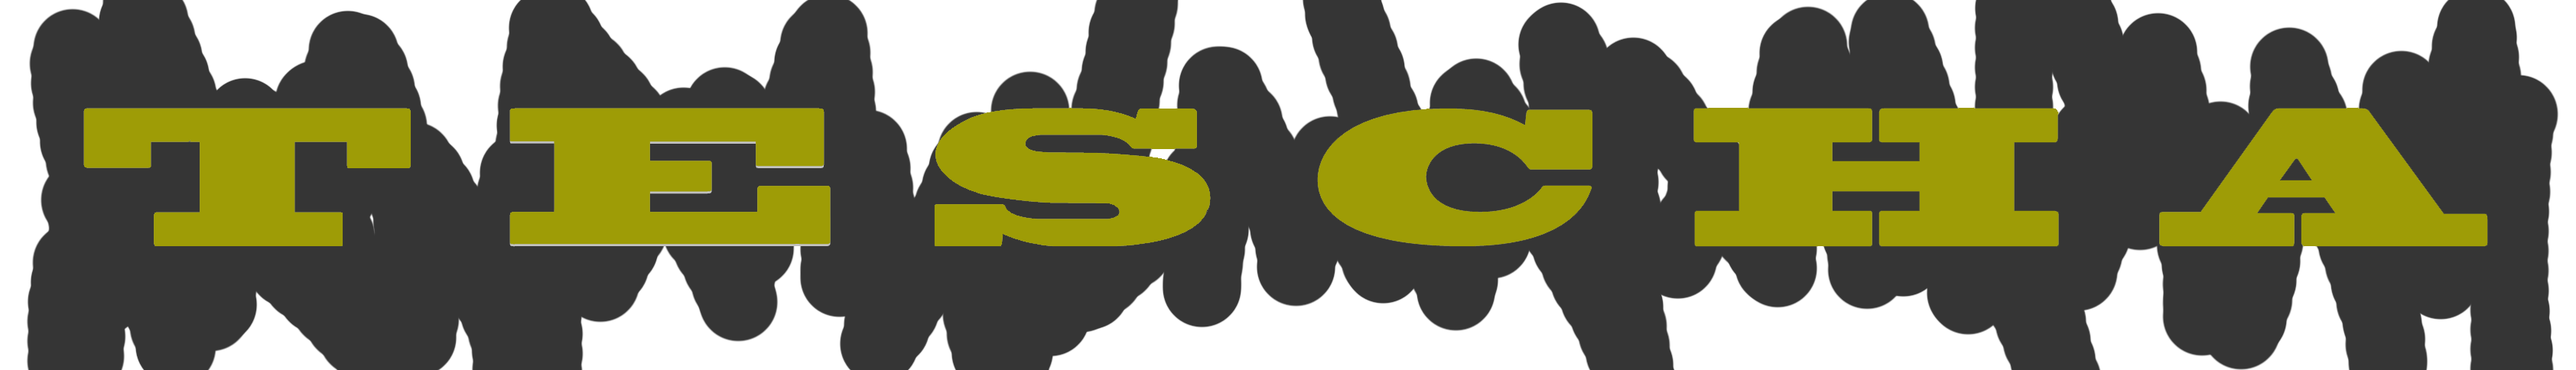
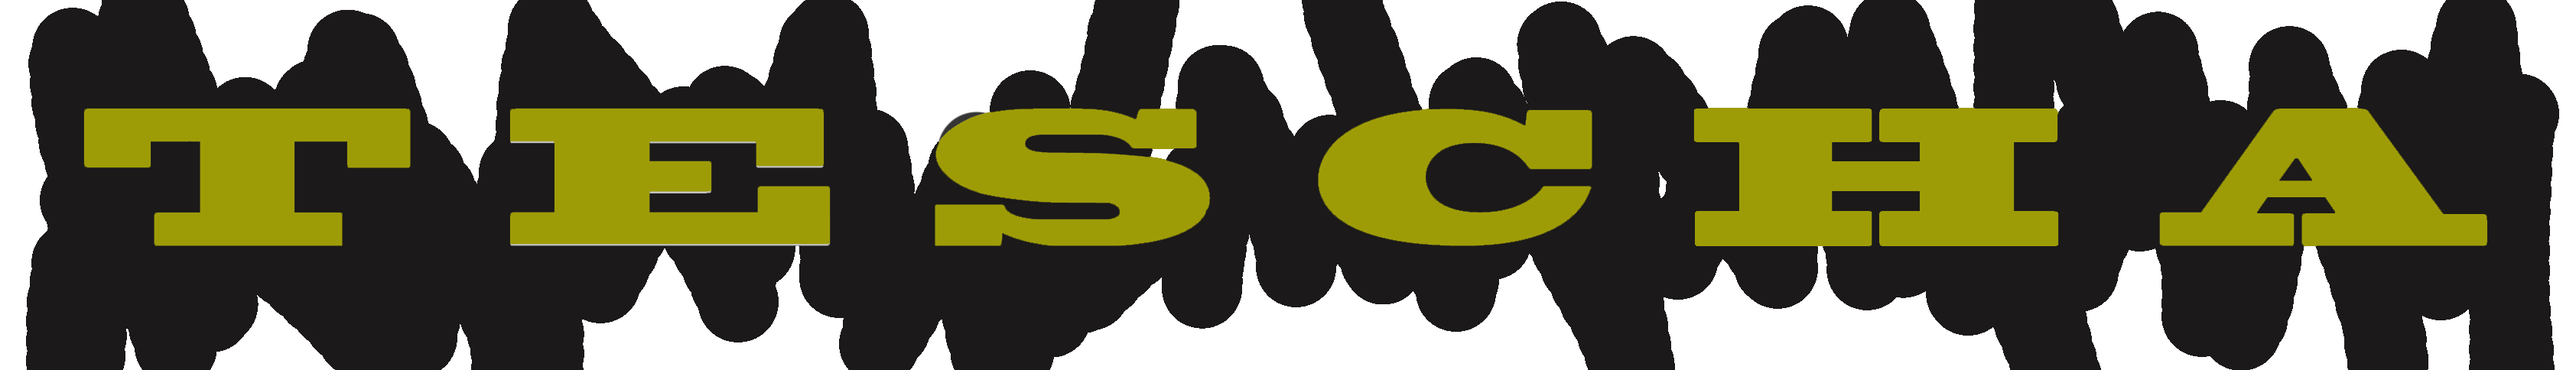
update 10/10/19
ultima actualizacion antes de migrar

diff --git a/index.html b/index.html
@@ -10,7 +10,7 @@
 <body>
     <header>
         <div class="encabezado ">
-            <img src="../img/tescha_e4.png" alt="">
+            <img src="../img/borde.png" alt="">
         </div>
     </header>
     <div class="barra">
@@ -26,90 +26,93 @@
         </nav>
     </div>
     <div class="contenido">
-        <h1>Programacion en tecnologias WEB</h1>
-        <p class="normal">texto normal Lorem ipsum dolor sit amet consectetur adipisicing elit. Esse molestias reprehenderit dignissimos distinctio ipsum illum eum debitis eos dolorem id, quo natus aliquid, hic provident necessitatibus inventore eligendi voluptatem suscipit.</p>
-        <p class="italic">texto cursivoLorem ipsum dolor sit amet consectetur adipisicing elit. Esse molestias reprehenderit dignissimos distinctio ipsum illum eum debitis eos dolorem id, quo natus aliquid, hic provident necessitatibus inventore eligendi voluptatem suscipit.</p>
-        <p class="oblique">texto estilo oblicuo Lorem ipsum dolor sit amet consectetur adipisicing elit. Esse molestias reprehenderit dignissimos distinctio ipsum illum eum debitis eos dolorem id, quo natus aliquid, hic provident necessitatibus inventore eligendi voluptatem suscipit.
-        Lorem ipsum dolor sit amet consectetur adipisicing elit. Modi tempora dicta explicabo quasi non excepturi repudiandae ipsa. Ad aspernatur delectus dolor, molestias, atque, sit aliquid blanditiis quod eos optio dolorem.
-        Lorem, ipsum dolor sit amet consectetur adipisicing elit. Perferendis porro repellendus animi laboriosam illum temporibus doloribus nulla atque ipsam optio, qui maxime necessitatibus minima itaque commodi doloremque quasi, id odit!</p>
-        
-    </div>
-    
-    <div class="contenido" id="formulario">
-        <h2>Formulario</h2>
-        <form action="resultado.html" >
-            <h3>Ingresa datos personales</h3>
-            Nombre: <input type="text" name="nombre" maxlength="30"> 
-            Apellido: <input type="text" name="apellido" maxlength="30">
-            Telefono: <input type="text" name="numero" maxlength="10"><br>
+        <div class="contenedor">
+            <h1>Programacion en tecnologias WEB</h1>
+            <p class="normal">texto normal Lorem ipsum dolor sit amet consectetur adipisicing elit. Esse molestias reprehenderit dignissimos distinctio ipsum illum eum debitis eos dolorem id, quo natus aliquid, hic provident necessitatibus inventore eligendi voluptatem suscipit.</p>
+            <p class="italic">texto cursivoLorem ipsum dolor sit amet consectetur adipisicing elit. Esse molestias reprehenderit dignissimos distinctio ipsum illum eum debitis eos dolorem id, quo natus aliquid, hic provident necessitatibus inventore eligendi voluptatem suscipit.</p>
+            <p class="oblique">texto estilo oblicuo Lorem ipsum dolor sit amet consectetur adipisicing elit. Esse molestias reprehenderit dignissimos distinctio ipsum illum eum debitis eos dolorem id, quo natus aliquid, hic provident necessitatibus inventore eligendi voluptatem suscipit.
+            Lorem ipsum dolor sit amet consectetur adipisicing elit. Modi tempora dicta explicabo quasi non excepturi repudiandae ipsa. Ad aspernatur delectus dolor, molestias, atque, sit aliquid blanditiis quod eos optio dolorem.
+            Lorem, ipsum dolor sit amet consectetur adipisicing elit. Perferendis porro repellendus animi laboriosam illum temporibus doloribus nulla atque ipsam optio, qui maxime necessitatibus minima itaque commodi doloremque quasi, id odit!</p>
+
+            <div id="formulario">
+                <h2>Formulario</h2>
+                <form action="resultado.html" >
+                    <h3>Ingresa datos personales</h3>
+                    Nombre: <input type="text" name="nombre" maxlength="30"> 
+                    Apellido: <input type="text" name="apellido" maxlength="30">
+                    Telefono: <input type="text" name="numero" maxlength="10"><br>
+                    
+                    <p>Sexo</p>
+                    <input type="radio"> Hombre 
+                    <input type="radio"> Mujer <br> <br>
             
-            <p>Sexo</p>
-            <input type="radio"> Hombre 
-            <input type="radio"> Mujer <br> <br>
-    
-            Correo <input type="email" placeholder="ejemplo@gmail.com">
-    
-            <p>Turno:</p>
-            Matutino <input type="checkbox">
-            Vespertino <input type="checkbox"> <br> <br>
-    
-            <select name="list" size="1">
-                <option>Agricultura y Alimentación</option>
-                <option>Ciencias Humanas</option>
-                <option>Ciencias de la Educación</option>
-                <option>Derecho</option>
-                <option>Economia y Empresa</option>
-                <option>Filogias Hispanica y clasica</option>
-                <option>Filogias Modernas</option>
-                <option>Ingenieria electrica</option>
-                <option>Ingenieria mecanica</option>
-                <option selected>Matematicas y computacion</option>
-                <option>Quimica</option>
-            </select>
-    
-            <p>Comentarios</p>
-            <textarea  cols="40" rows="10" maxlength="100" placeholder="solo puedes escribir como maximo 100 caracteres"></textarea> <br> <br>
-    
-            <button type="submit">Enviar</button> <br> <br>
-            <button type="reset">reset</button>
-
-            <br>
-            <br>
-            <br>
-            <br>
-            <br>
-            <br>
-            <br>
-            <br>
-            <br>
-            <br>
-            <br>
-            <br>
-            <br>
-            <br>
-            <br>
-            <br>
-            <br>
-            <br>
-            <br>
-            <br>
-            <br>
-            <br>
-            <br>
-            <br>
-            <br>
-            <br>
-            <br>
-            <br>
-            <br>
-            <br>
-    
-        </form>
+                    Correo <input type="email" placeholder="ejemplo@gmail.com">
+            
+                    <p>Turno:</p>
+                    Matutino <input type="checkbox">
+                    Vespertino <input type="checkbox"> <br> <br>
+            
+                    <select name="list" size="1">
+                        <option>Agricultura y Alimentación</option>
+                        <option>Ciencias Humanas</option>
+                        <option>Ciencias de la Educación</option>
+                        <option>Derecho</option>
+                        <option>Economia y Empresa</option>
+                        <option>Filogias Hispanica y clasica</option>
+                        <option>Filogias Modernas</option>
+                        <option>Ingenieria electrica</option>
+                        <option>Ingenieria mecanica</option>
+                        <option selected>Matematicas y computacion</option>
+                        <option>Quimica</option>
+                    </select>
+            
+                    <p>Comentarios</p>
+                    <textarea  cols="40" rows="10" maxlength="100" placeholder="solo puedes escribir como maximo 100 caracteres"></textarea> <br> <br>
+            
+                    <button type="submit">Enviar</button> <br> <br>
+                    <button type="reset">reset</button>
+        
+                    <br>
+                    <br>
+                    <br>
+                    <br>
+                    <br>
+                    <br>
+                    <br>
+                    <br>
+                    <br>
+                    <br>
+                    <br>
+                    <br>
+                    <br>
+                    <br>
+                    <br>
+                    <br>
+                    <br>
+                    <br>
+                    <br>
+                    <br>
+                    <br>
+                    <br>
+                    <br>
+                    <br>
+                    <br>
+                    <br>
+                    <br>
+                    <br>
+                    <br>
+                    <br>
+            
+                </form>
+            </div>
+        </div> 
+        <div class="segunga-pag">
+            <iframe src="http://tesch.edu.mx/" height="400" width="1200" ></iframe>
+        </div> 
     </div>
-
-    <div class="contenido">
-        <iframe src="http://tesch.edu.mx/" height="400" width="1200" ></iframe>
-    </div>
+    
+    
+    
     
     
 </body>

diff --git a/css/main.css b/css/main.css
@@ -11,15 +11,28 @@ body{
 /* ---------------- globales ----------------- */
 div.contenido{
     width: 1200px;
-    margin: 0 auto;
+    margin: 10px auto;
+    background-color: #ebdfdf;
+    padding: 0px 0px;
+    /* transform: scale(1.1);  va crecer */
+    /* border: 1px solid #fe4918;  cuando crece se ve el borde */
+    box-shadow: 0px 0px 50px rgb(5, 5, 5);  /* al borde se le ve una sombra*/
 }
+
+.contenedor{
+    padding: 3px 20px;
+
+}
+
 
 
 
 /* ---------------- encabezado ----------------- */
 div.encabezado {
     width: 1200px;
-    margin: 20px auto
+    margin: 30px auto 15px auto;
+    
+
 }
 
 div.encabezado img{
@@ -35,7 +48,7 @@ div.barra{
     
 }
 div.barra{
-    background-color: #353535;
+    background-color: #1b1919;
     padding: 25px 0px;
     font-family: 'Arial Black';
     text-align: center;
@@ -51,7 +64,7 @@ div.logo img{
 
 
 nav.menu a{
-    color: #c1c1c1;
+    
     text-decoration: none;
     padding: 0px 50px;
     text-transform: uppercase;
@@ -67,7 +80,7 @@ nav.menu a:visited{
     color: #9e9c06;
 }
 nav.menu a:hover{
-    color: white;
+    color: #ebdfdf;
 }
 nav.menu a:active{
     color: rgb(0, 0, 0);
@@ -82,7 +95,7 @@ a.home:link, a.home:visited{
 }
 a.home:hover{
     background-color:  #9e9c06;
-    color: #353535 !important;
+    color: #ebdfdf !important;
 }
 
 
@@ -90,14 +103,14 @@ a.home:hover{
 .contenido,.contenedor{
     text-align: justify;
     font-family: 'Arial';
+    
 
 }
 
 h1,h2{
     text-align: center;
-    border: solid 5px #353535;
     border-radius: 20px;
-    background-color: #353535; 
+    background-color: #1b1919; 
     color: #9e9c06;
     text-decoration: line-through;
     text-transform: capitalize;
@@ -110,19 +123,12 @@ h2{
 }
 
 p.normal,p.italic,p.oblique{
-    padding: 40px 20px;
-    border: solid 5px #353535;
-    background-color: #c1c1c1;
-    margin:10px 40px;
 }
 
 
 /* ---------------- formulario ----------------- */
 form{
-    padding: 40px 20px;
-    border: solid 5px #353535;
-    background-color: #c1c1c1;
-    margin:10px 0px;
+    padding: 0px 0px;
 }
 
 
@@ -144,8 +150,8 @@ p.oblique{
 }
 
 /* ---------------- pag secundaria ----------------- */
-iframe{
-    float: right;
+div.segunda-pagina iframe{
+    padding: 0px 0px !important;
 }
 
 
@@ -156,7 +162,7 @@ table{
     width: 100%;
 }
 th{
-    background-color: #353535;
+    background-color: #1b1919;
     color: #c1c1c1;
 }
 tr:nth-child(even){
